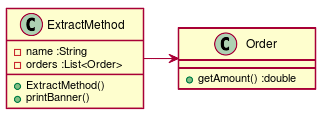
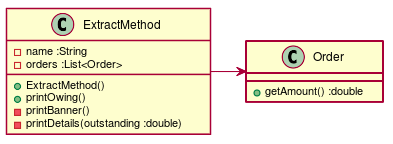
メソッドの構成 #EFJ-12
・After:ローカル変数を使う場合

diff --git a/src/main/java/refactoring/catalog/ExtractMethod.java b/src/main/java/refactoring/catalog/ExtractMethod.java
@@ -27,7 +27,12 @@ class ExtractMethod {
         // 未払い金の計算
         for(Order _order : _orders)
             outstanding += _order.getAmount();
+        printDetails(outstanding);
 
+
+    }
+
+    private void printDetails(double outstanding) {
         // 明細の印刷
         System.out.println("name:" + _name);
         System.out.println("amount:" + outstanding);

diff --git a/docs/refactoring_catalog.md b/docs/refactoring_catalog.md
@@ -12,11 +12,11 @@
 ##### クラス図
   
 
-![](./assets/refactoring_catalog/304c6a7221fb9ead610ce99af5b2958a0.png?0.5216419387048097)  
+![](./assets/refactoring_catalog/30c0abba45d31db5980c104fd57a660d0.png?0.8339249788810696)  
 ##### シーケンス図
   
 
-![](./assets/refactoring_catalog/304c6a7221fb9ead610ce99af5b2958a1.png?0.012318845162063052)  
+![](./assets/refactoring_catalog/30c0abba45d31db5980c104fd57a660d1.png?0.25187368969870594)  
 #### 実装
   
 `ExtractMethodTest.java`
@@ -79,7 +79,12 @@ class ExtractMethod {
         // 未払い金の計算
         for(Order _order : _orders)
             outstanding += _order.getAmount();
+        printDetails(outstanding);
   
+  
+    }
+  
+    private void printDetails(double outstanding) {
         // 明細の印刷
         System.out.println("name:" + _name);
         System.out.println("amount:" + outstanding);

diff --git a/docs/src/refacotring_catalog.md b/docs/src/refacotring_catalog.md
@@ -18,7 +18,9 @@ class ExtractMethod {
   -name :String
   -orders :List<Order>
   +ExtractMethod()
-  +printBanner()
+  +printOwing()
+  -printBanner()
+  -printDetails(outstanding :double)
 }
 class Order {
   + getAmount() :double
@@ -30,7 +32,7 @@ ExtractMethod  -> Order
 ```puml
 @startuml
 ExtractMethod -> Order :new
-ExtractMethod -> ExtractMethod :printBanner
+ExtractMethod -> ExtractMethod :printOwing
 @enduml
 ```
 #### 実装
